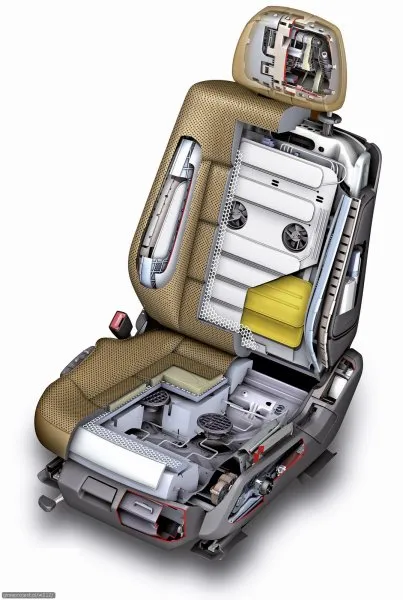
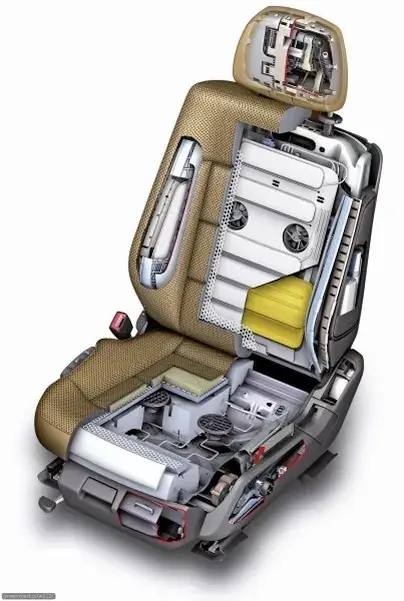
246

diff --git a/pic/ja_mb_img_e.html b/pic/ja_mb_img_e.html
@@ -776,8 +776,8 @@
 						<a href="full/e/w212_f2_ava.jpg"><img loading="lazy" src="style/e/w212_f2_ava.webp" alt="メルセデス,W212,Eクラス,Avantgarde,フロント" width="606" height="277"></a>
 						<a href="full/e/w212_r2_ava.jpg"><img loading="lazy" src="style/e/w212_r2_ava.webp" alt="メルセデス,W212,Eクラス,Avantgarde,リヤ" width="599" height="277"></a><br>
 						<a href="full/e/w212_d2_ava.jpg"><img loading="lazy" src="style/e/w212_d2_ava.webp" alt="メルセデス,W212,Eクラス,Avantgarde,ダッシュボード" width="1210" height="756"></a><br>
-						<a href="full/e/w212_i.jpg"><img loading="lazy" src="style/e/w212_i.webp" alt="メルセデス,W212,Eクラス,内装" width="800" height="600"></a>
-						<a href="full/e/w212_i_2.jpg"><img loading="lazy" src="style/e/w212_i_2.webp" alt="メルセデス,W212,Eクラス,内装" width="403" height="600"></a><br>
+						<a href="full/e/w212_i.jpg"><img loading="lazy" src="style/e/w212_i.webp" alt="メルセデス,W212,Eクラス,内装" width="801" height="601"></a>
+						<a href="full/e/w212_i_2.jpg"><img loading="lazy" src="style/e/w212_i_2.webp" alt="メルセデス,W212,Eクラス,内装" width="404" height="601"></a><br>
 						<a href="full/e/w212_tp.jpg"><img loading="lazy" src="style/e/w212_tp.webp" alt="メルセデス,W212,Eクラス,透視図" width="1210" height="776"></a>
 						<div>
 							<div class="box80b">

diff --git a/pic/mb_img_e.html b/pic/mb_img_e.html
@@ -776,8 +776,8 @@
 						<a href="full/e/w212_f2_ava.jpg"><img loading="lazy" src="style/e/w212_f2_ava.webp" alt="Mercedes,W212,E-klasse,Avantgarde,Frontansicht" width="606" height="277"></a>
 						<a href="full/e/w212_r2_ava.jpg"><img loading="lazy" src="style/e/w212_r2_ava.webp" alt="Mercedes,W212,E-klasse,Avantgarde,Rückansicht" width="599" height="277"></a><br>
 						<a href="full/e/w212_d2_ava.jpg"><img loading="lazy" src="style/e/w212_d2_ava.webp" alt="Mercedes,W212,E-klasse,Avantgarde,Instrumententafel" width="1210" height="756"></a><br>
-						<a href="full/e/w212_i.jpg"><img loading="lazy" src="style/e/w212_i.webp" alt="Mercedes,W212,E,Innenansicht" width="800" height="600"></a>
-						<a href="full/e/w212_i_2.jpg"><img loading="lazy" src="style/e/w212_i_2.webp" alt="Mercedes,W212,E,Innenansicht" width="403" height="600"></a><br>
+						<a href="full/e/w212_i.jpg"><img loading="lazy" src="style/e/w212_i.webp" alt="Mercedes,W212,E,Innenansicht" width="801" height="601"></a>
+						<a href="full/e/w212_i_2.jpg"><img loading="lazy" src="style/e/w212_i_2.webp" alt="Mercedes,W212,E,Innenansicht" width="404" height="601"></a><br>
 						<a href="full/e/w212_tp.jpg"><img loading="lazy" src="style/e/w212_tp.webp" alt="Mercedes,W212,E-klasse,Perspektive" width="1210" height="776"></a>
 						<div>
 							<div class="box80b">

diff --git a/pic/en_mb_img_e.html b/pic/en_mb_img_e.html
@@ -776,8 +776,8 @@
 						<a href="full/e/w212_f2_ava.jpg"><img loading="lazy" src="style/e/w212_f2_ava.webp" alt="Mercedes,W212,E-class,Avantgarde,Front view" width="606" height="277"></a>
 						<a href="full/e/w212_r2_ava.jpg"><img loading="lazy" src="style/e/w212_r2_ava.webp" alt="Mercedes,W212,E-class,Avantgarde,Rear view" width="599" height="277"></a><br>
 						<a href="full/e/w212_d2_ava.jpg"><img loading="lazy" src="style/e/w212_d2_ava.webp" alt="Mercedes,W212,E-class,Avantgarde,Dashboard" width="1210" height="756"></a><br>
-						<a href="full/e/w212_i.jpg"><img loading="lazy" src="style/e/w212_i.webp" alt="Mercedes,W212,E,Interior" width="800" height="600"></a>
-						<a href="full/e/w212_i_2.jpg"><img loading="lazy" src="style/e/w212_i_2.webp" alt="Mercedes,W212,E,Interior" width="403" height="600"></a><br>
+						<a href="full/e/w212_i.jpg"><img loading="lazy" src="style/e/w212_i.webp" alt="Mercedes,W212,E,Interior" width="801" height="601"></a>
+						<a href="full/e/w212_i_2.jpg"><img loading="lazy" src="style/e/w212_i_2.webp" alt="Mercedes,W212,E,Interior" width="404" height="601"></a><br>
 						<a href="full/e/w212_tp.jpg"><img loading="lazy" src="style/e/w212_tp.webp" alt="Mercedes,W212,E-class,Perspective view" width="1210" height="776"></a>
 						<div>
 							<div class="box80b">
